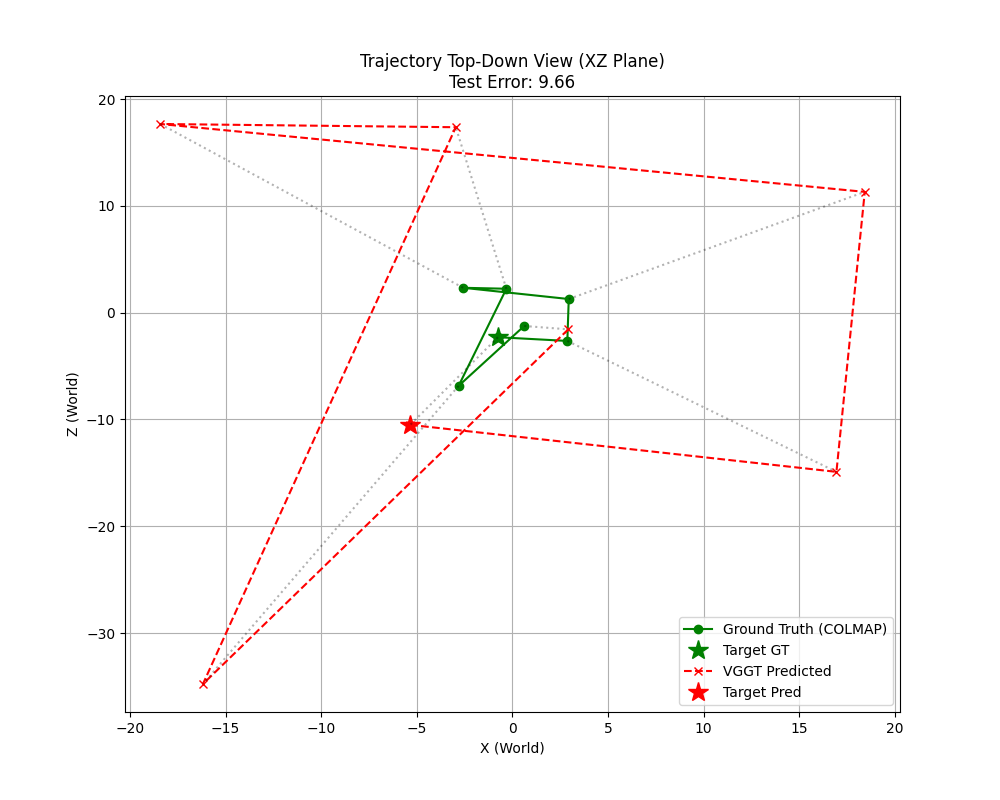
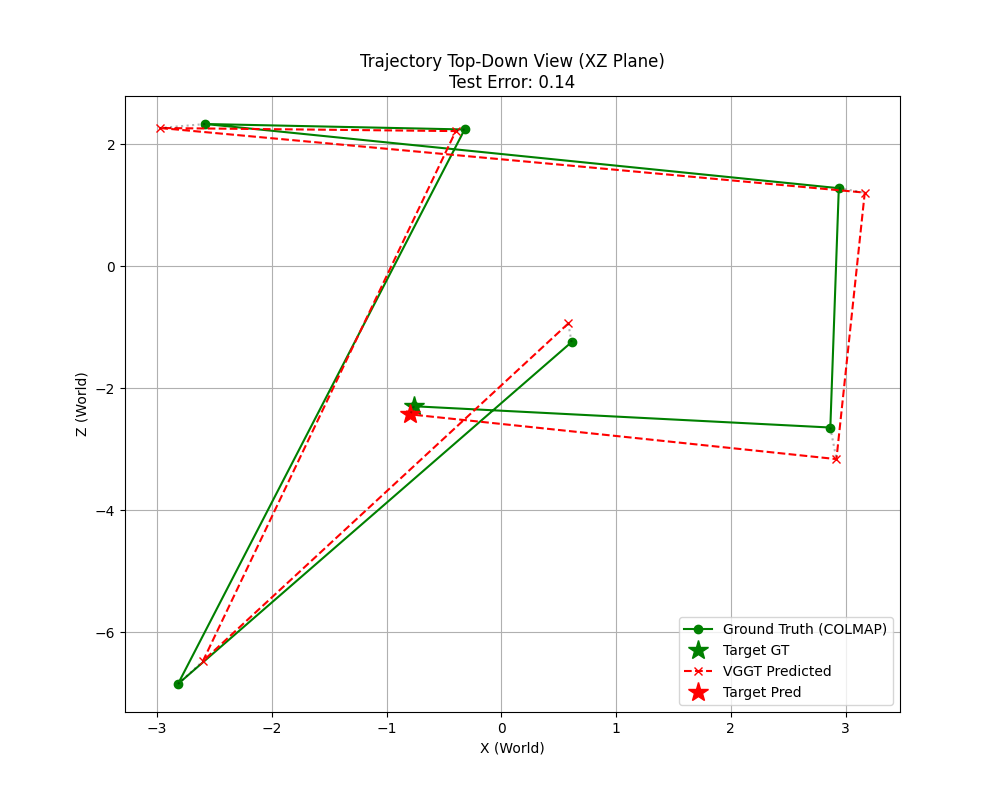
Unit tests for real images pose validation completed

diff --git a/unit_tests/pose_validation_vggt_on_real_only.py b/unit_tests/pose_validation_vggt_on_real_only.py
@@ -71,7 +71,11 @@ def umeyama_alignment(model_points, target_points):
         Vt[-1, :] *= -1
         R = Vt.T @ U.T
 
-    var_m = np.var(model_points, axis=0).sum()
+    # --- CORRECTION IS HERE ---
+    # Old (Wrong): var_m = np.var(model_points, axis=0).sum() 
+    # New (Correct): Sum of squared deviations
+    var_m = np.sum(m_centered ** 2)
+    
     s = np.trace(np.diag(S)) / var_m
     t = mu_t - s * (R @ mu_m)
     return s, R, t
